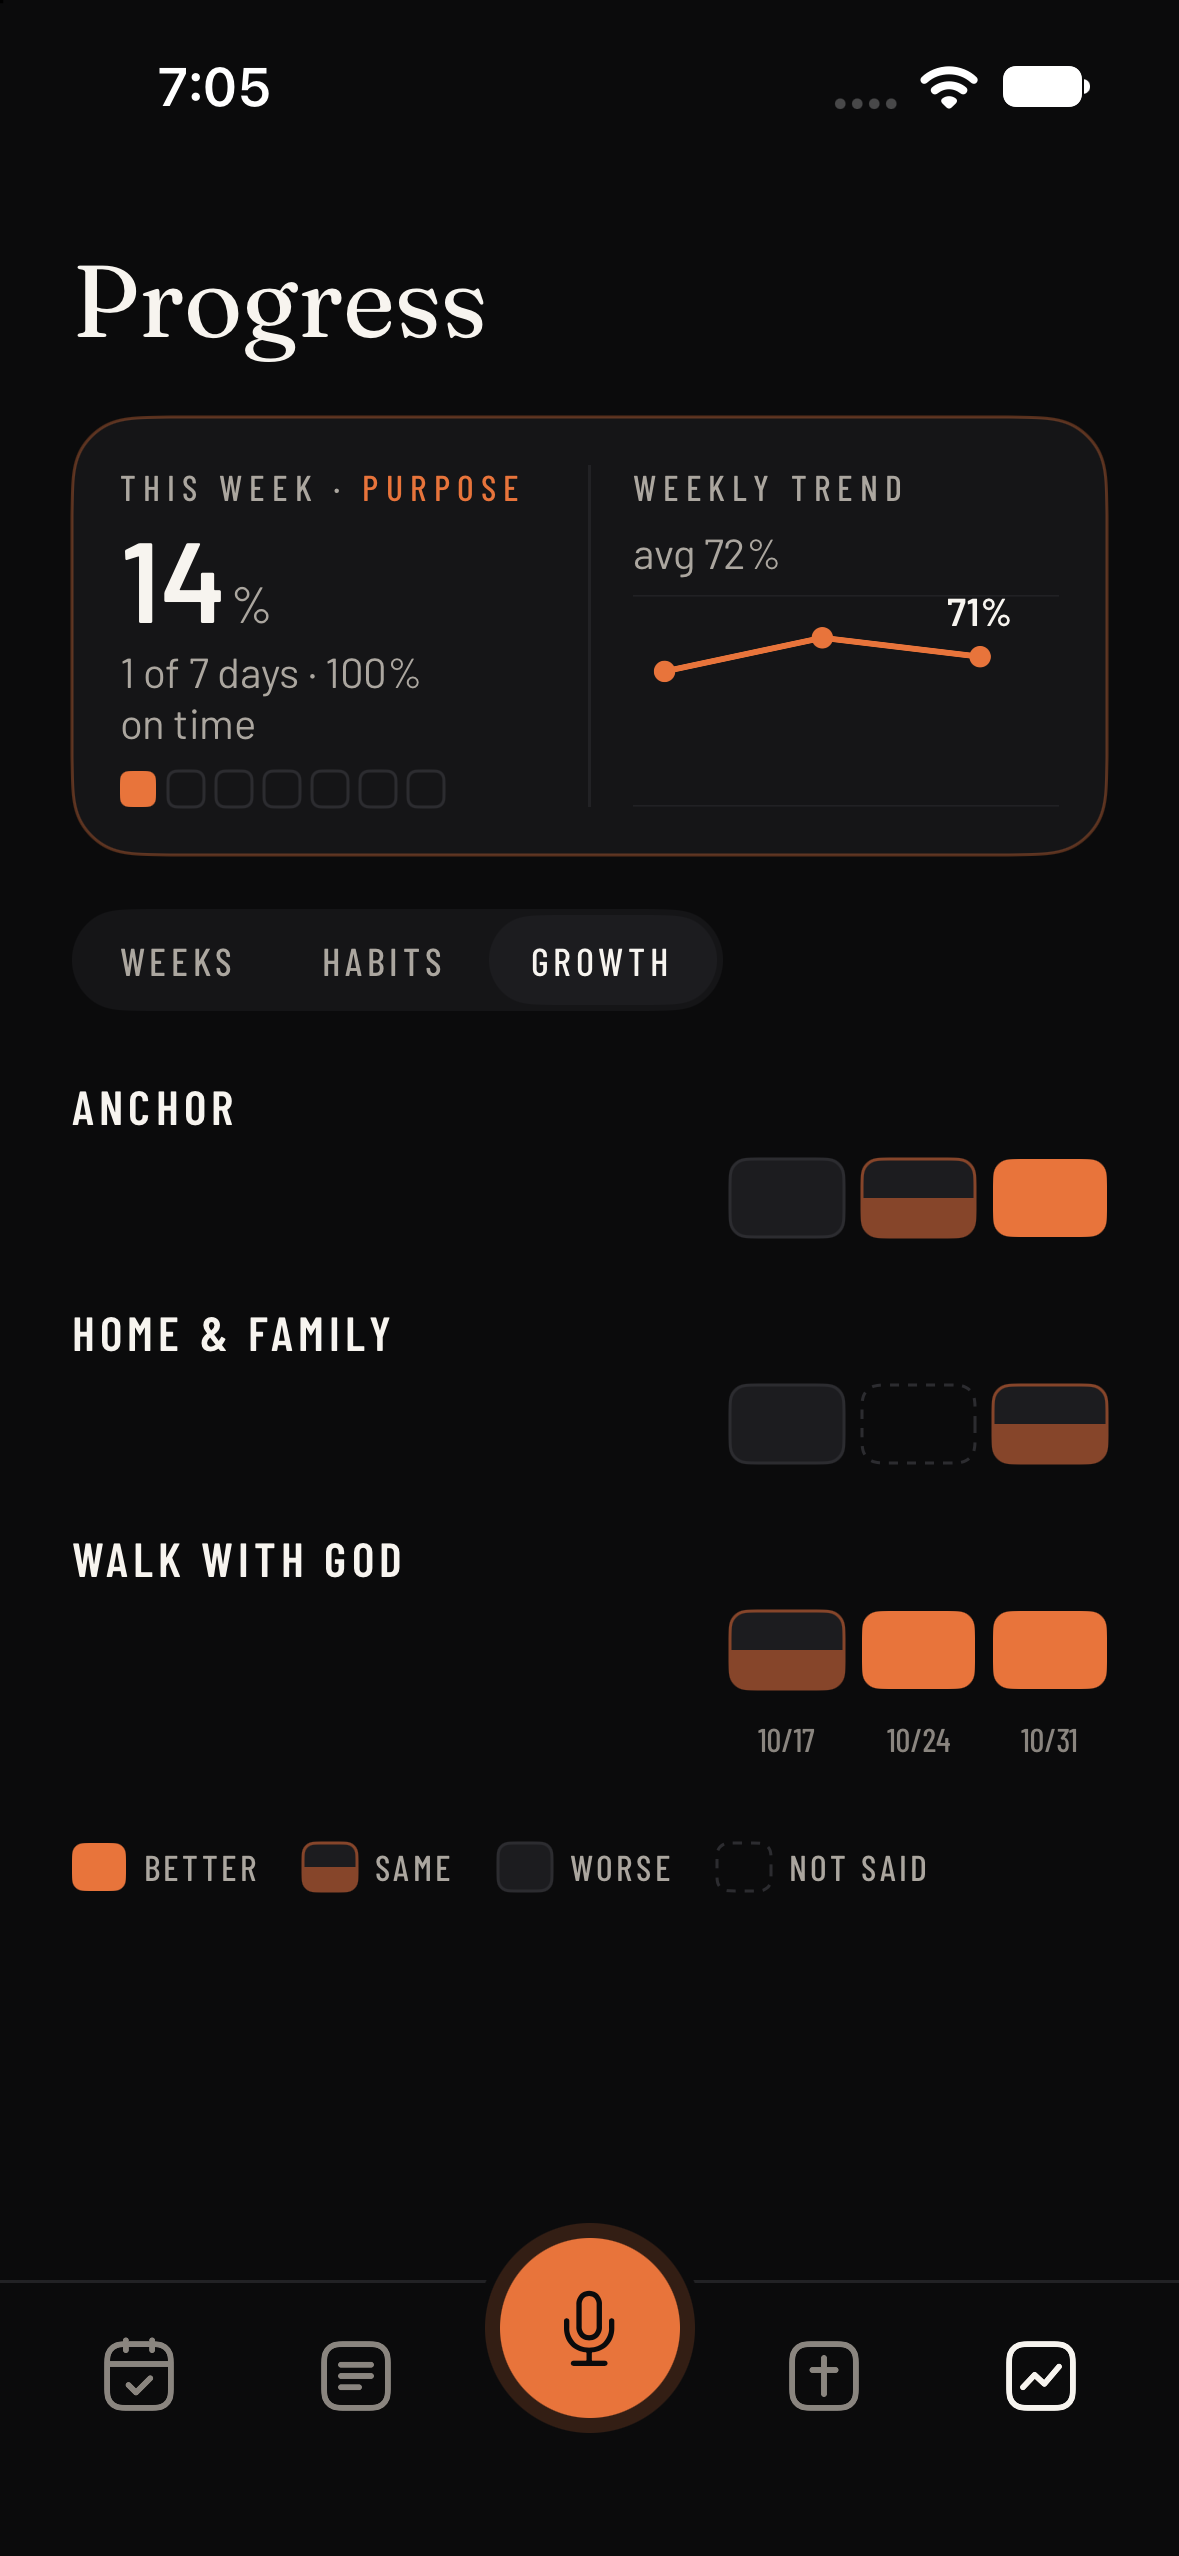
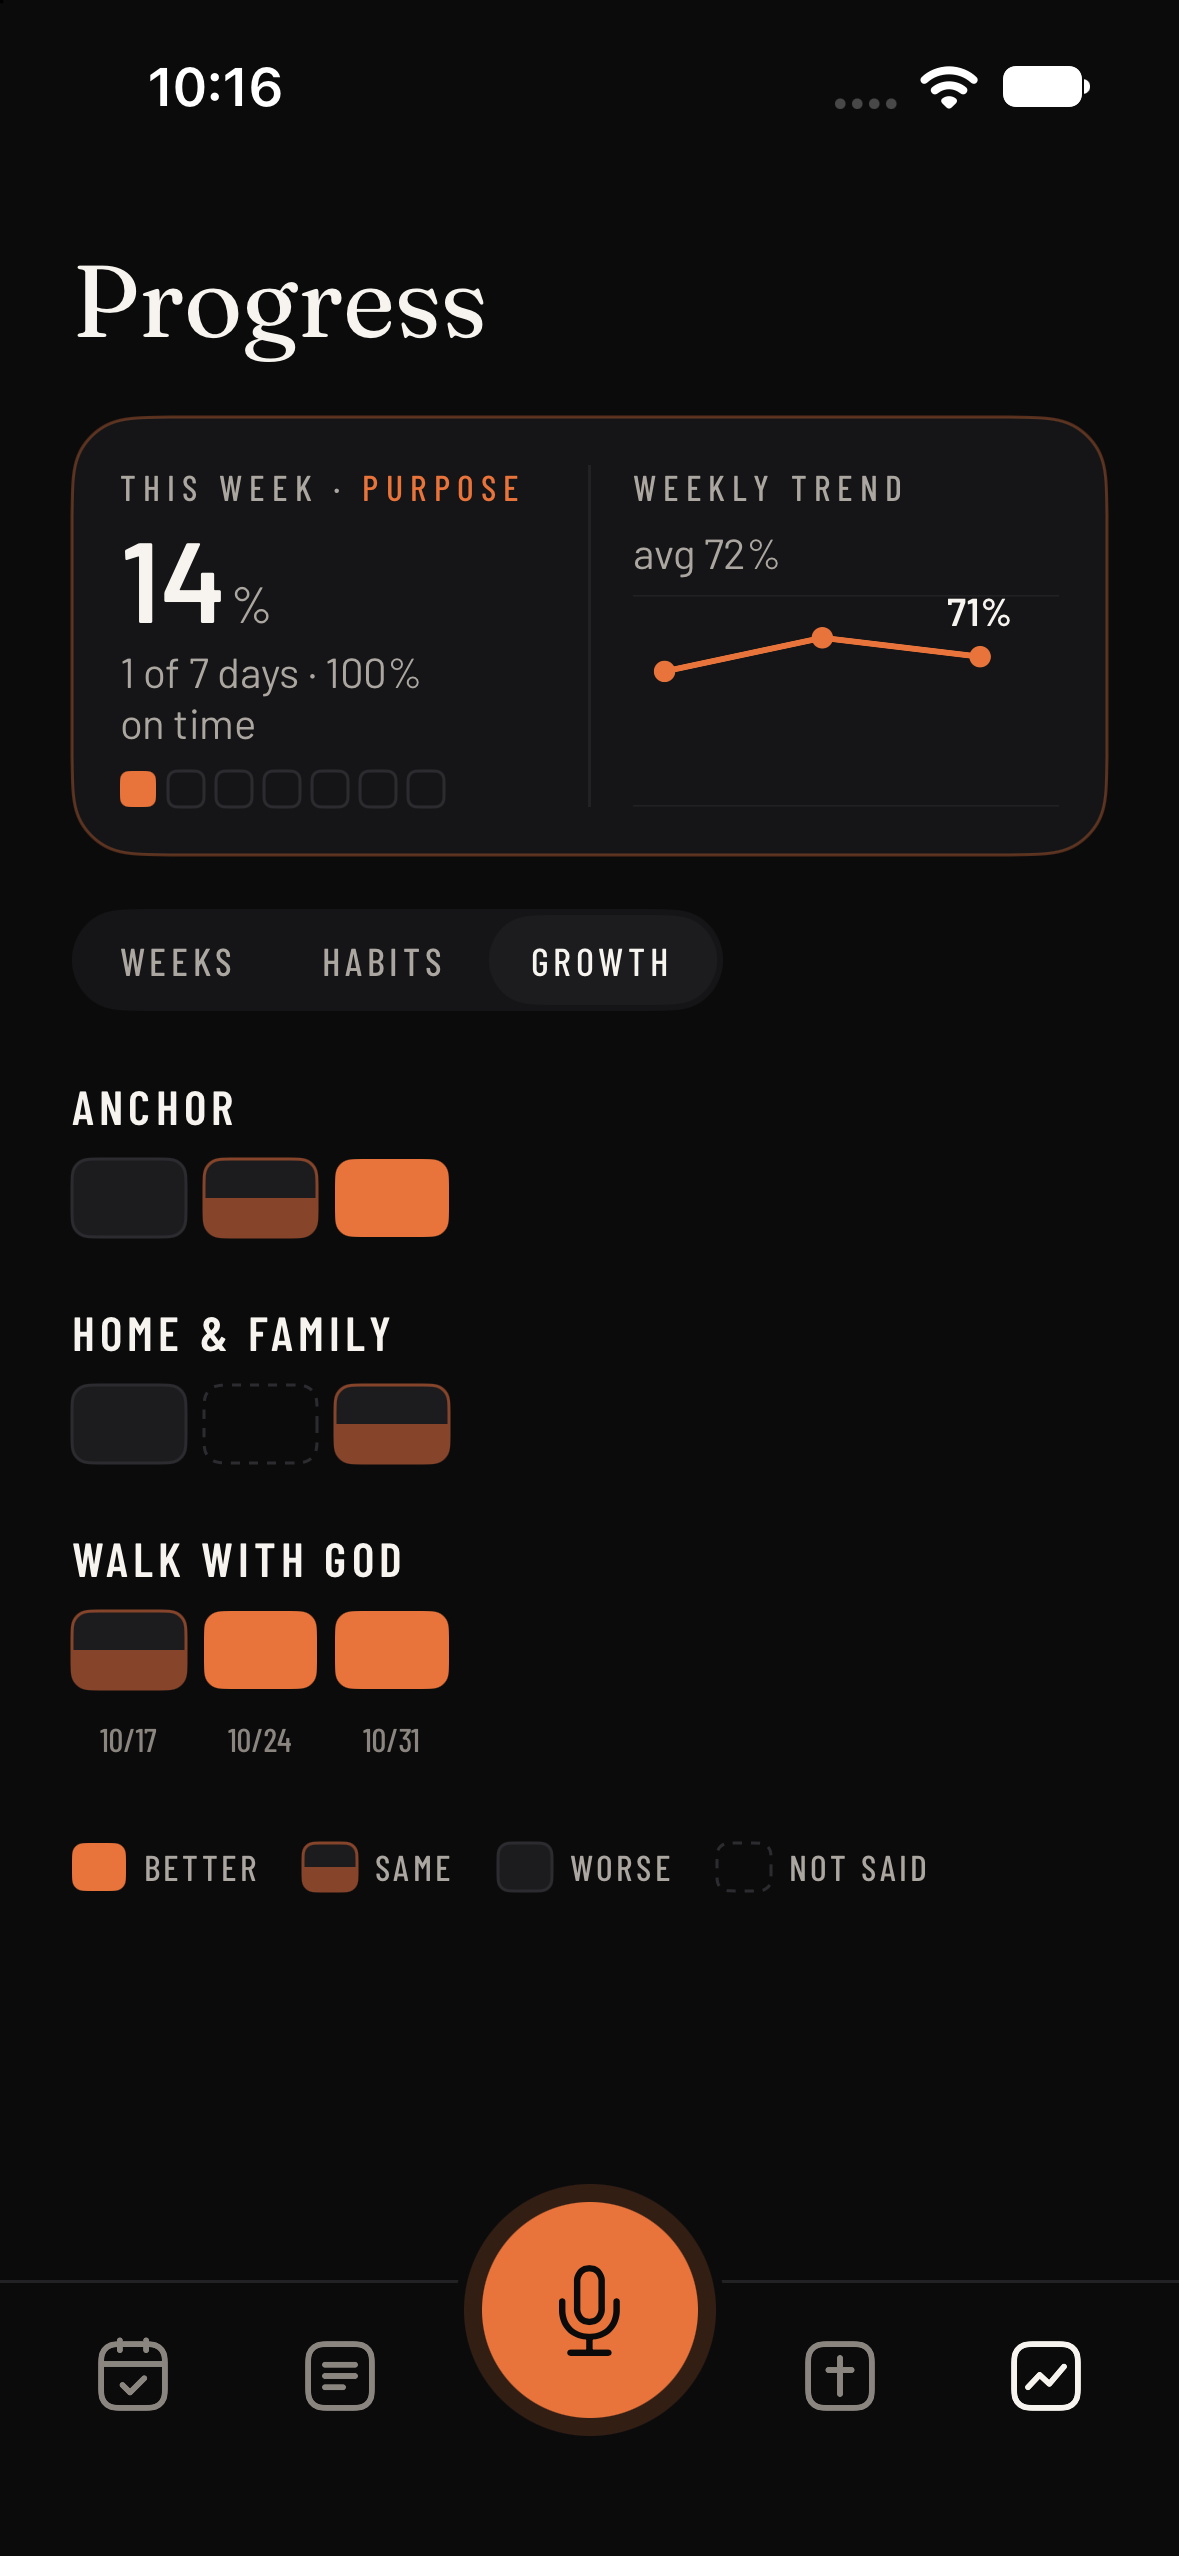
iOS: habits can be tucked back at review time; sphere squares sit under their names; mic buttons carry no word, 'Dictate' becomes 'Record a thought'

diff --git a/ios/WeeklyDirection/Growth.swift b/ios/WeeklyDirection/Growth.swift
@@ -85,7 +85,7 @@ struct GrowthGrid: View {
 
     var body: some View {
         let g = Growth.rows(store.weeks)
-        // always eight columns, newest on the right: the squares keep their size while the first weeks fill in
+        // always eight columns, oldest on the left: the squares keep their size while the first weeks fill in
         let pad = max(0, 8 - g.weeks.count)
         VStack(alignment: .leading, spacing: 0) {
             if g.rows.isEmpty {
@@ -102,8 +102,9 @@ struct GrowthGrid: View {
                             }
                         }
                         HStack(spacing: 6) {
-                            ForEach(0..<pad, id: \.self) { _ in Color.clear.frame(maxWidth: .infinity).frame(height: 26) }
+                            // from the left, under the name; the row fills towards the right as weeks are rated
                             ForEach(Array(r.cells.enumerated()), id: \.offset) { _, v in GrowthSquare(v: v).frame(maxWidth: .infinity).frame(height: 26) }
+                            ForEach(0..<pad, id: \.self) { _ in Color.clear.frame(maxWidth: .infinity).frame(height: 26) }
                         }
                     }
                     .padding(.top, 22).rise(n)
@@ -111,8 +112,8 @@ struct GrowthGrid: View {
                     .onTapGesture { Haptic.tick(); open = Open(id: r.sphere) }
                 }
                 HStack(spacing: 6) {
-                    ForEach(0..<pad, id: \.self) { _ in Color.clear.frame(maxWidth: .infinity).frame(height: 1) }
                     ForEach(g.weeks) { w in Text(Fmt.slash(w.sealedAt)).font(Theme.label(11)).foregroundStyle(Theme.mu2).frame(maxWidth: .infinity) }
+                    ForEach(0..<pad, id: \.self) { _ in Color.clear.frame(maxWidth: .infinity).frame(height: 1) }
                 }
                 .padding(.top, 10)
                 HStack(spacing: 14) { key(1, "Better"); key(0, "Same"); key(-1, "Worse"); key(nil, "Not said") }.padding(.top, 28)

diff --git a/ios/Shared/WidgetViews.swift b/ios/Shared/WidgetViews.swift
@@ -111,11 +111,9 @@ struct WeekWidgetBody: View {
                 if !s.verseRef.isEmpty { Text(s.verseRef.uppercased()).font(label(11)).tracking(1.8).foregroundStyle(p.mu2).padding(.top, 4) }
                 Spacer(minLength: 6)
                 Link(destination: Shared.dictateURL) {
-                    HStack(spacing: 6) {
-                        Image(systemName: "mic").font(.system(size: 12, weight: .medium))
-                        Text("DICTATE").font(caps(12)).tracking(1.6)
-                    }
-                    .foregroundStyle(p.onAc).padding(.horizontal, 11).frame(height: 28).background(p.ac, in: Capsule())
+                    // the mic alone, like the one in the app's tab bar: no word on it
+                    Image(systemName: "mic").font(.system(size: 17, weight: .medium)).foregroundStyle(p.onAc)
+                        .frame(width: 40, height: 40).background(p.ac, in: Circle())
                 }
             }
             .frame(width: 118, alignment: .leading)
@@ -148,11 +146,8 @@ struct WeekWidgetBody: View {
                 Spacer()
                 // the one thing this widget does besides show the week: straight into dictation
                 Link(destination: Shared.dictateURL) {
-                    HStack(spacing: 8) {
-                        Image(systemName: "mic").font(.system(size: 15, weight: .medium))
-                        Text("DICTATE").font(caps(14)).tracking(1.8)
-                    }
-                    .foregroundStyle(p.onAc).padding(.horizontal, 16).frame(height: 38).background(p.ac, in: Capsule())
+                    Image(systemName: "mic").font(.system(size: 20, weight: .medium)).foregroundStyle(p.onAc)
+                        .frame(width: 48, height: 48).background(p.ac, in: Circle())
                 }
             }
         }

diff --git a/ios/WeeklyDirection/ThisWeekView.swift b/ios/WeeklyDirection/ThisWeekView.swift
@@ -110,7 +110,9 @@ struct ThisWeekView: View {
             .transition(.opacity)
         }
         if !tucked {
-        habitsHeader(x).padding(.top, 24).rise(1)
+        // opened at review time: the same line tucks them away again
+        habitsHeader(x, hide: review ? { Haptic.tick(); withAnimation(.spring(response: 0.4, dampingFraction: 0.85)) { showHabits = false } } : nil)
+            .padding(.top, 24).rise(1)
         VStack(spacing: 6) {
             let shown = w.commitments.filter { c in x.selDay.map { Rules.onDay(c, $0) } ?? true }
             ForEach(Array(shown.enumerated()), id: \.element.id) { n, c in
@@ -223,13 +225,15 @@ struct ThisWeekView: View {
         .overlay(RoundedRectangle(cornerRadius: Theme.r(18), style: .continuous).stroke(due ? Theme.acDim : Theme.line, lineWidth: 1))
     }
 
-    private func habitsHeader(_ x: Ctx) -> some View {
+    private func habitsHeader(_ x: Ctx, hide: (() -> Void)? = nil) -> some View {
         HStack(alignment: .firstTextBaseline) {
-            Button { router.cover = .vision(x.w.id) } label: {
+            Button { if let hide { hide() } else { router.cover = .vision(x.w.id) } } label: {
                 HStack(spacing: 8) {
                     Eyebrow(text: "Daily habits", color: Theme.mu, size: 12)
-                    Image(systemName: "chevron.right").font(.system(size: 11, weight: .medium)).foregroundStyle(Theme.mu)
+                    Image(systemName: hide != nil ? "chevron.up" : "chevron.right").font(.system(size: 11, weight: .medium)).foregroundStyle(Theme.mu)
+                    if hide != nil { Spacer() }
                 }
+                .padding(.vertical, hide != nil ? 10 : 0).contentShape(Rectangle())
             }
             .buttonStyle(.plain)
             Spacer()

diff --git a/ios/WeeklyDirectionWidgets/Widgets.swift b/ios/WeeklyDirectionWidgets/Widgets.swift
@@ -72,7 +72,7 @@ struct DictateWidget: Widget {
             .containerBackground(for: .widget) { Color.clear }
             .widgetURL(Shared.dictateURL)
         }
-        .configurationDisplayName("Dictate")
+        .configurationDisplayName("Record a thought")
         .description("Straight into recording a thought.")
         .supportedFamilies([.accessoryCircular])
     }
@@ -82,9 +82,9 @@ struct DictateWidget: Widget {
 struct DictateControl: ControlWidget {
     var body: some ControlWidgetConfiguration {
         StaticControlConfiguration(kind: "DictateControl") {
-            ControlWidgetButton(action: DictateIntent()) { Label("Dictate", systemImage: "mic.fill") }
+            ControlWidgetButton(action: DictateIntent()) { Label("Record a thought", systemImage: "mic.fill") }
         }
-        .displayName("Dictate")
+        .displayName("Record a thought")
         .description("Open Weekly Direction and start recording.")
     }
 }

diff --git a/ios/WeeklyDirection/Intents.swift b/ios/WeeklyDirection/Intents.swift
@@ -18,8 +18,8 @@ struct ReflectIntent: AppIntent {
 /// and the Action button; both appear in the Shortcuts app.
 struct WeeklyDirectionShortcuts: AppShortcutsProvider {
     static var appShortcuts: [AppShortcut] {
-        AppShortcut(intent: DictateIntent(), phrases: ["Dictate in \(.applicationName)", "Start dictating in \(.applicationName)"],
-                    shortTitle: "Dictate", systemImageName: "mic.fill")
+        AppShortcut(intent: DictateIntent(), phrases: ["Record a thought in \(.applicationName)", "Speak in \(.applicationName)"],
+                    shortTitle: "Record a thought", systemImageName: "mic.fill")
         AppShortcut(intent: ReflectIntent(), phrases: ["Reflect in \(.applicationName)", "Record a reflection in \(.applicationName)"],
                     shortTitle: "Reflect", systemImageName: "mic")
     }

diff --git a/ios/Shared/WidgetShared.swift b/ios/Shared/WidgetShared.swift
@@ -68,7 +68,7 @@ struct TimerAttributes: ActivityAttributes {
 /// "Dictate": opens the app straight into recording. Used by the Lock Screen / Control Center control, Siri, Shortcuts,
 /// Back Tap and the Action button. It only leaves a flag; the app does the rest when it opens.
 struct DictateIntent: AppIntent {
-    static var title: LocalizedStringResource = "Dictate"
+    static var title: LocalizedStringResource = "Record a thought"
     static var description = IntentDescription("Open Weekly Direction and start recording a thought.")
     static var openAppWhenRun = true
 
